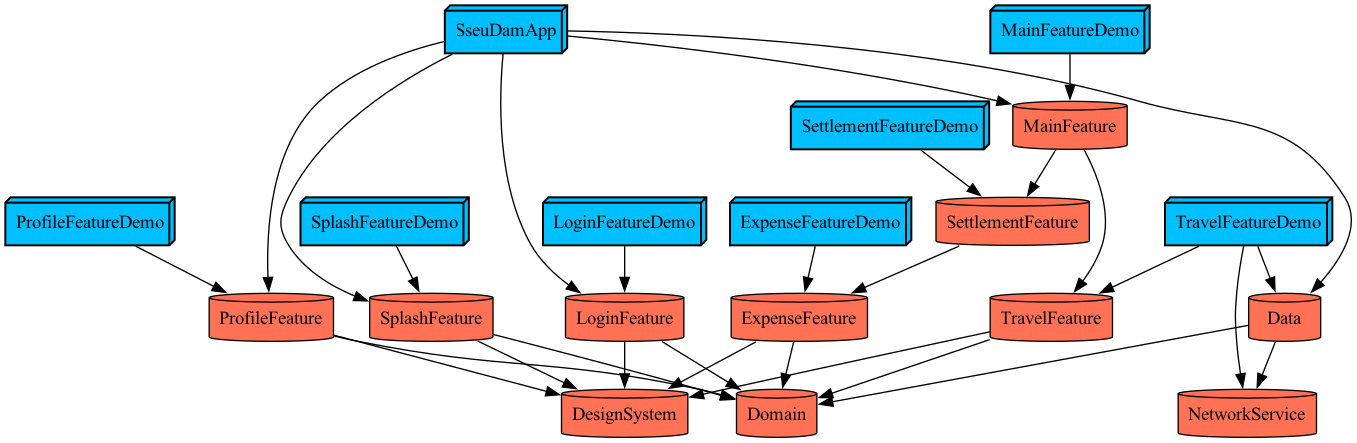
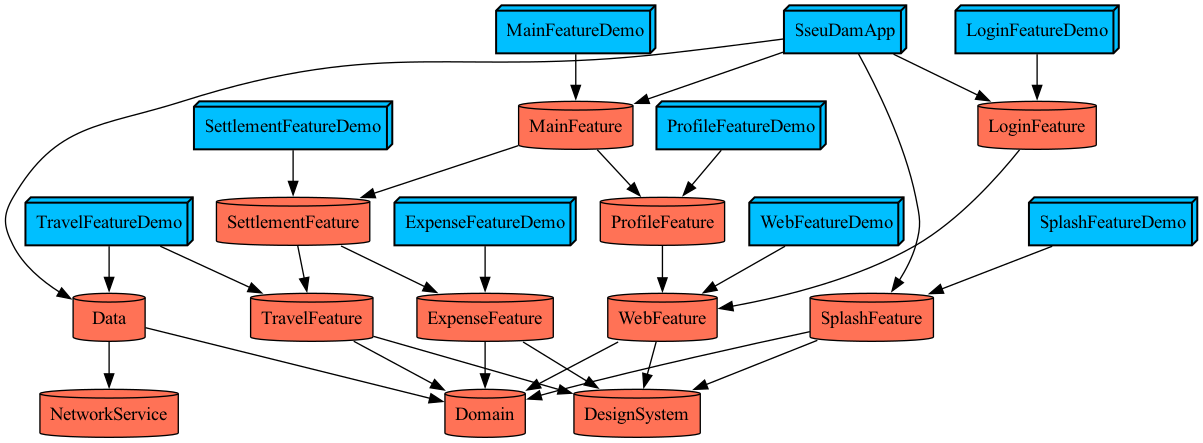
feat: 의존성 수정 및 그래프 재생성

diff --git a/Features/Travel/Project.swift b/Features/Travel/Project.swift
@@ -5,12 +5,10 @@ let project = Project.makeFeature(
     name: .Travel,
     dependencies: [
         .Domain,
-        .DesignSystem,
-        .Features.Profile
+        .DesignSystem
     ],
     demoDependencies: [
-        .Data,
-        .NetworkService
+        .Data
     ],
     hasTests: true
 )

diff --git a/Features/Main/Project.swift b/Features/Main/Project.swift
@@ -5,8 +5,6 @@ let project = Project.makeFeature(
     name: .Main,
     dependencies: [
         .SPM.TCACoordinators,
-        .Features.Travel,
-        .Features.Expense,
         .Features.Settlement,
         .Features.Profile
     ],

diff --git a/Features/Profile/Project.swift b/Features/Profile/Project.swift
@@ -4,8 +4,7 @@ import SseuDamPlugin
 let project = Project.makeFeature(
     name: .Profile,
     dependencies: [
-        .Domain,
-        .DesignSystem,
+        .SPM.TCACoordinators,
         .Features.Web
     ],
     hasTests: true

diff --git a/Features/Web/Project.swift b/Features/Web/Project.swift
@@ -4,8 +4,6 @@ import SseuDamPlugin
 let project = Project.makeFeature(
     name: .Web,
     dependencies: [
-        .SPM.ComposableArchitecture,
-        .SPM.TCACoordinators,
         .Domain,
         .DesignSystem
     ],

diff --git a/Features/Web/Sources/Reducer/WebFeature.swift b/Features/Web/Sources/Reducer/WebFeature.swift
@@ -37,8 +37,4 @@ public struct WebFeature {
   }
 }
 
-extension WebFeature.State: Hashable {
-    public func hash(into hasher: inout Hasher) {
-        hasher.combine(url)
-    }
-}
+extension WebFeature.State: Hashable {}

diff --git a/SseuDamApp/Project.swift b/SseuDamApp/Project.swift
@@ -7,7 +7,6 @@ let project = Project.makeApp(
         .Features.Login,
         .Features.Main,
         .Features.Splash,
-        .Features.Profile,
         .Data
     ],
     infoPlist: .defaultSwiftUIApp,

diff --git a/Features/Login/Project.swift b/Features/Login/Project.swift
@@ -4,8 +4,6 @@ import SseuDamPlugin
 let project = Project.makeFeature(
     name: .Login,
     dependencies: [
-        .Domain,
-        .DesignSystem,
         .Features.Web
     ],
     hasTests: true
